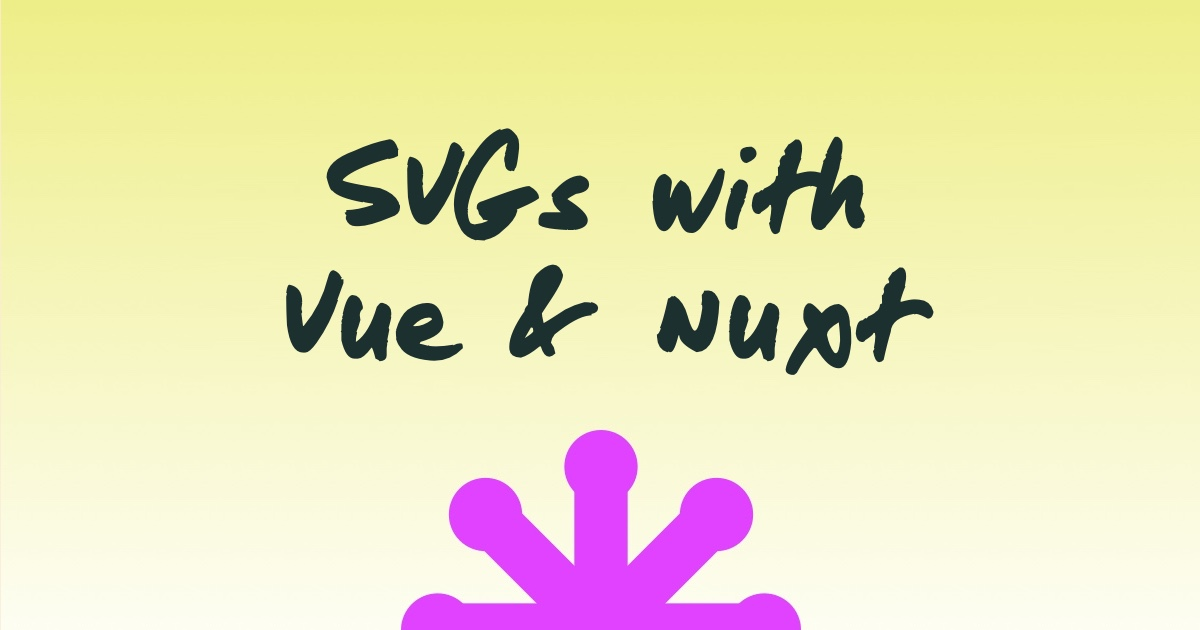
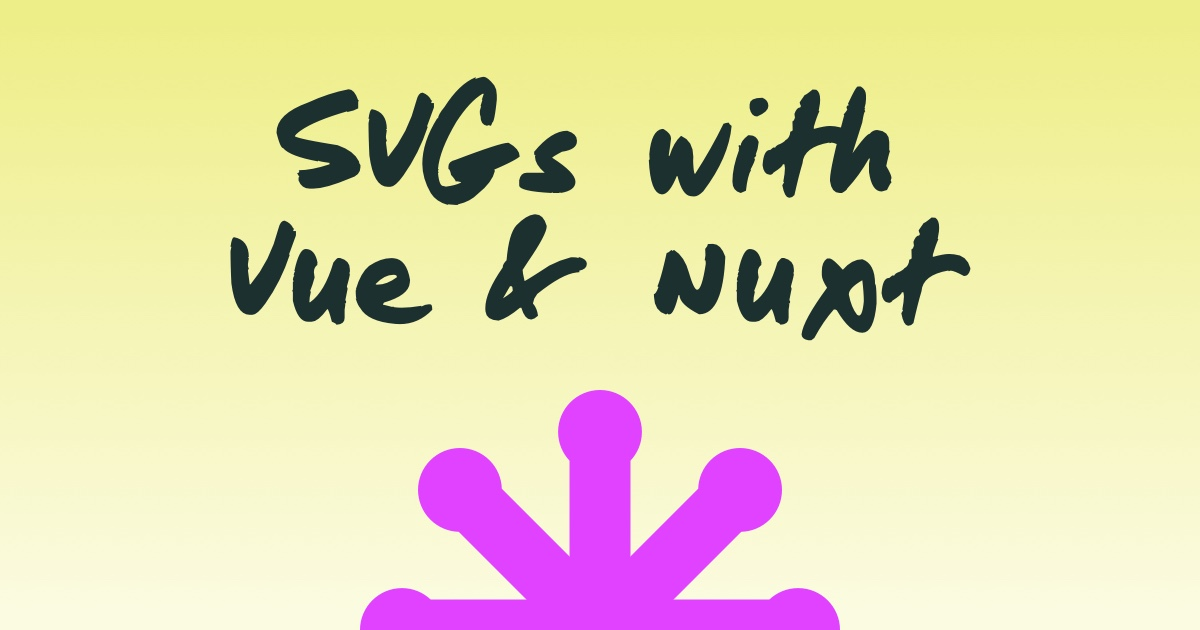
SVG post-better style, url name and social cover

diff --git a/components/content/IconExample.vue b/components/content/IconExample.vue
@@ -106,4 +106,9 @@ fieldset div {
 	flex-direction: column;
 	gap: var(--space-m);
 }
+@media (width <= $display-width-narrow) {
+	fieldset {
+	flex-direction: column;
+}
+}
 </style>

diff --git a/content/post/svgs-with-vue-and-nuxt.md b/content/post/svgs-with-vue-and-nuxt.md
@@ -4,8 +4,8 @@ author_name: 'Yonatan Ben Knaan'
 date: '2022-01-01'
 updated: ''
 cover_image: '/posts/about-my-svg/about-my-svg.svg'
-cover_image_height: ''
-cover_image_thumbhash: ''
+cover_image_height: '400'
+cover_image_thumbhash: 'dikGI4jIV5hwd6hn+I58cDc'
 social_image: '/posts/about-my-svg/about-my-svgs-social.jpg'
 image_alt: 'Cover art for SVGs & Vue article'
 description: 'How I use SVGs with Vue and Nuxt'
@@ -169,7 +169,7 @@ For the icon drawing I tore apart the *path* form the the *SVG* and added `title
 
 ## Live Example
 
-Here are a few icons of my *Icon System* to play around with
+A few icons to play around with to show case the power of an *Icon System*. Of course this will make more sense when you'll have more then 3 icons 😋
 
 ::IconExample
 ::
